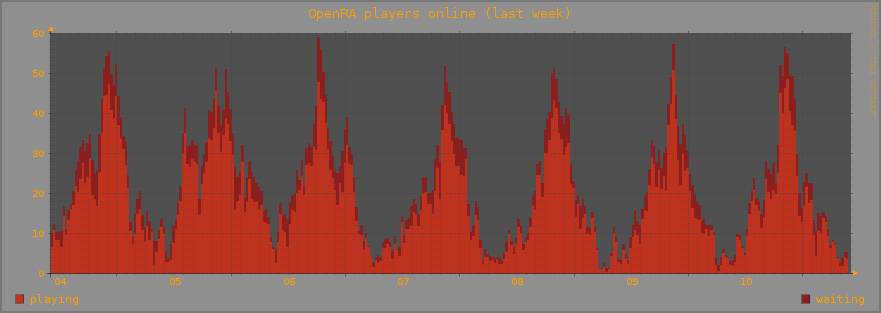
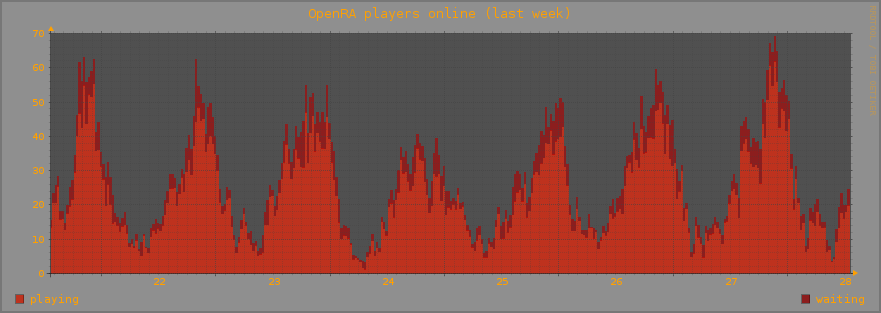
update db

diff --git a/log/redraw.ts b/log/redraw.ts
@@ -1,1 +1,1 @@
-2015-12-11 09:57:06
+2015-12-28 13:09:06
